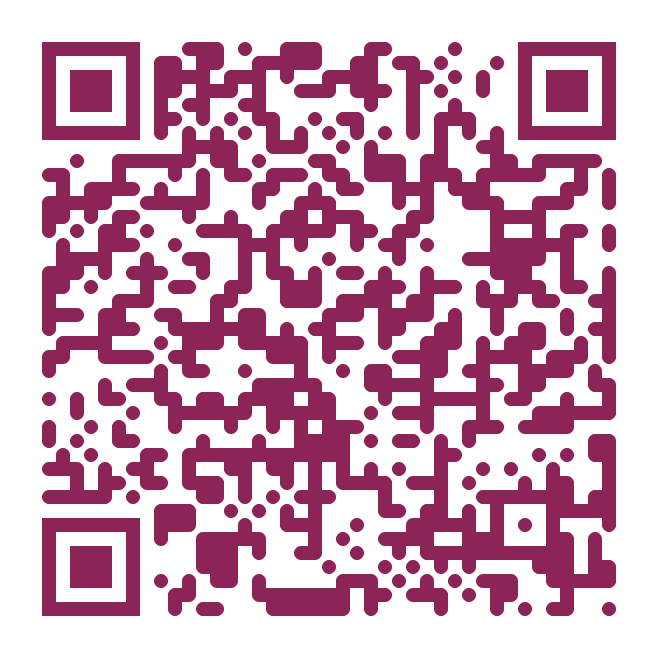
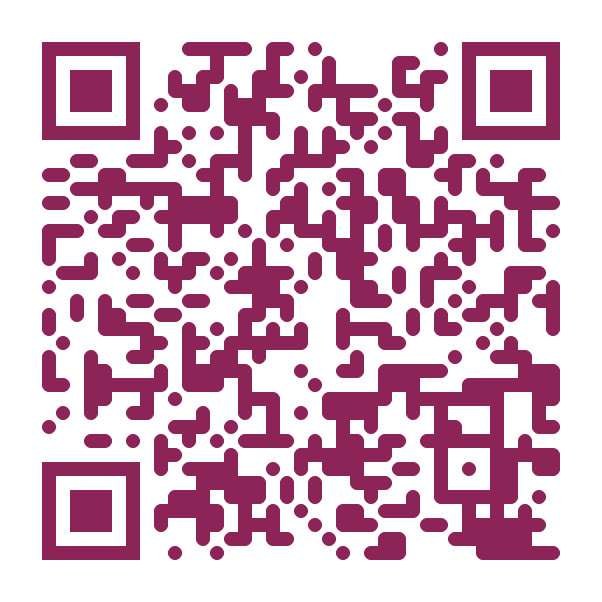
QR direct to custom domain + corrected yields

diff --git a/rpl-workup.html b/rpl-workup.html
@@ -428,21 +428,21 @@ details.cat[open] .chev{transform:rotate(180deg)}
   <div class="stats">
     <div class="stat"><div class="stat-n">1 in 4</div><div class="stat-l">pregnancies ends in early miscarriage</div><div class="stat-s">population baseline</div></div>
     <div class="stat"><div class="stat-n">2</div><div class="stat-l">losses — the threshold to start the workup</div><div class="stat-s">ESHRE 2022 · RANZCOG C-Gyn 38</div></div>
-    <div class="stat"><div class="stat-n">~50%</div><div class="stat-l">of fully investigated couples: no cause found</div><div class="stat-s">and their outlook is still good</div></div>
+    <div class="stat"><div class="stat-n">~60%</div><div class="stat-l">of fully investigated couples: no cause found</div><div class="stat-s">and their outlook is still good</div></div>
   </div>
 
   <div class="plot" id="fig-yield">
     <div class="plot-t"><span class="fig">Figure 1</span>Expected yield of each test</div>
-    <div class="plot-s">How often each result comes back abnormal in RPL.</div>
+    <div class="plot-s">Chance of a finding that changes management — confirmed, not first-draw.</div>
     <div class="yb-list">
       <div class="yb" data-w="55"><div class="yb-l"><b>POC chromosome array</b><span>on tissue from the next loss — explains that loss</span></div><div class="yb-track"><div class="yb-fill"></div><span class="yb-v">~55%</span></div></div>
-      <div class="yb" data-w="20"><div class="yb-l"><b>TSH + TPO antibodies</b><span>abnormal in 15–25% — overt disease is treatable</span></div><div class="yb-track"><div class="yb-fill"></div><span class="yb-v">~20%</span></div></div>
-      <div class="yb" data-w="17"><div class="yb-l"><b>3D pelvic ultrasound</b><span>anomaly or adenomyosis in 10–25%</span></div><div class="yb-track"><div class="yb-fill"></div><span class="yb-v">~17%</span></div></div>
-      <div class="yb hot" data-w="12"><div class="yb-l"><b>Antiphospholipid screen</b><span>10–15% — the one treatable serological cause</span></div><div class="yb-track"><div class="yb-fill"></div><span class="yb-v">~12%</span></div></div>
+      <div class="yb" data-w="13"><div class="yb-l"><b>3D pelvic ultrasound</b><span>congenital anomaly in ~13% — vs 5.5% background</span></div><div class="yb-track"><div class="yb-fill"></div><span class="yb-v">~13%</span></div></div>
+      <div class="yb" data-w="6"><div class="yb-l"><b>TSH + TPO antibodies</b><span>TSH&nbsp;&gt;4 in ~5% — the part that is treated; TPO+ ~10% ≈ background</span></div><div class="yb-track"><div class="yb-fill"></div><span class="yb-v">~5%</span></div></div>
+      <div class="yb hot" data-w="4"><div class="yb-l"><b>Antiphospholipid screen</b><span>first draw positive ~10% — <b>persistent at 12 wks in 1–5%</b>: the treatable cause</span></div><div class="yb-track"><div class="yb-fill"></div><span class="yb-v">1–5%</span></div></div>
       <div class="yb" data-w="3"><div class="yb-l"><b>Parental karyotype</b><span>2–4% — and it falls sharply with maternal age</span></div><div class="yb-track"><div class="yb-fill"></div><span class="yb-v">~3%</span></div></div>
-      <div class="yb grey" data-w="50"><div class="yb-l"><b>No cause found</b><span>unexplained after the full panel — plan and support</span></div><div class="yb-track"><div class="yb-fill"></div><span class="yb-v">~50%</span></div></div>
+      <div class="yb grey" data-w="60"><div class="yb-l"><b>No cause found</b><span>unexplained after the full panel — plan and support</span></div><div class="yb-track"><div class="yb-fill"></div><span class="yb-v">50–75%</span></div></div>
     </div>
-    <div class="viz-tag">Approximate yields from ESHRE 2022 evidence review — ranges vary by cohort</div>
+    <div class="viz-tag">Confirmed-finding rates: Shehata 2022 (n=1,155) · Leduc-Robert 2020 (n=1,064) · Chan 2011 meta-analysis · ranges vary by cohort</div>
   </div>
 
   <div class="medicare">
@@ -514,20 +514,20 @@ details.cat[open] .chev{transform:rotate(180deg)}
   </div>
 
   <details class="cat">
-    <summary><div class="cat-ti"><span class="ic"><svg class="i"><use href="#i-zap"/></svg></span>Antiphospholipid screen<span class="chev">▼</span></div><span class="urg u3">yield 10–15%</span></summary>
-    <div class="cat-body"><div class="cat-b">Lupus anticoagulant + anticardiolipin IgG/IgM (reasonable to add anti-β2GPI on the same form). <strong>The one treatable serological cause.</strong> Confirm any positive ≥12 weeks later. If confirmed APS: low-dose aspirin + prophylactic LMWH from positive βhCG. Not valid on warfarin/DOACs; withhold heparin 12 h pre-sample.</div>
+    <summary><div class="cat-ti"><span class="ic"><svg class="i"><use href="#i-zap"/></svg></span>Antiphospholipid screen<span class="chev">▼</span></div><span class="urg u3">confirmed 1–5%</span></summary>
+    <div class="cat-body"><div class="cat-b">Lupus anticoagulant + anticardiolipin IgG/IgM (reasonable to add anti-β2GPI on the same form). <strong>The one treatable serological cause — but most first positives do not persist:</strong> ~10% test positive once, only 1–5% remain positive on the mandatory ≥12-week repeat. Never label APS off a single draw. If confirmed APS: low-dose aspirin + prophylactic LMWH from positive βhCG. Not valid on warfarin/DOACs; withhold heparin 12 h pre-sample.</div>
     <div class="cat-ex"><span>ESHRE Rec 15–16</span><span>RANZCOG R8</span></div></div>
   </details>
 
   <details class="cat">
-    <summary><div class="cat-ti"><span class="ic"><svg class="i"><use href="#i-clock"/></svg></span>TSH + TPO antibodies<span class="chev">▼</span></div><span class="urg u3">yield 15–25%</span></summary>
-    <div class="cat-body"><div class="cat-b">If TSH abnormal → add free T4. <strong>Treat overt hypothyroidism.</strong> Euthyroid TPO-positivity does not benefit from levothyroxine (ESHRE 2022 update) — but recheck TSH at 7–9 weeks in the next pregnancy.</div>
+    <summary><div class="cat-ti"><span class="ic"><svg class="i"><use href="#i-clock"/></svg></span>TSH + TPO antibodies<span class="chev">▼</span></div><span class="urg u3">treatable ~5%</span></summary>
+    <div class="cat-body"><div class="cat-b">If TSH abnormal → add free T4. <strong>Treat from TSH &gt;4</strong> (~5% of RPL patients). TPO antibodies are positive in ~10% — similar to background — and euthyroid TPO-positivity does not benefit from levothyroxine (ESHRE 2022 update); recheck TSH at 7–9 weeks in the next pregnancy.</div>
     <div class="cat-ex"><span>ESHRE Rec 24, 47, 51</span><span>RANZCOG R15–16</span></div></div>
   </details>
 
   <details class="cat">
-    <summary><div class="cat-ti"><span class="ic"><svg class="i"><use href="#i-pin"/></svg></span>3D transvaginal ultrasound<span class="chev">▼</span></div><span class="urg u3">yield 10–25%</span></summary>
-    <div class="cat-body"><div class="cat-b">Request <strong>"TVS with 3D reconstruction"</strong> — distinguishes septate from bicorporeal uterus and screens for adenomyosis. Sonohysterography is an acceptable alternative; MRI only if 3D unavailable. Anomaly found → assess renal tract. Note: septum resection is no longer routine after the Rikken RCT.</div>
+    <summary><div class="cat-ti"><span class="ic"><svg class="i"><use href="#i-pin"/></svg></span>3D transvaginal ultrasound<span class="chev">▼</span></div><span class="urg u3">yield ~13%</span></summary>
+    <div class="cat-body"><div class="cat-b">Request <strong>"TVS with 3D reconstruction"</strong> — congenital anomalies in ~13% of recurrent miscarriage vs 5.5% of all women (Chan 2011); also screens for adenomyosis.  Sonohysterography is an acceptable alternative; MRI only if 3D unavailable. Anomaly found → assess renal tract. Note: septum resection is no longer routine after the Rikken RCT.</div>
     <div class="cat-ex"><span>ESHRE Rec 33–38</span><span>RANZCOG R8</span></div></div>
   </details>
 
@@ -671,7 +671,10 @@ var SRC={
   NYBO:   {s:"Nybo Andersen 2000",t:"Registry (n≈634k)",f:"Nybo Andersen AM, et al. BMJ 2000. Miscarriage risk by maternal age: ~12% in the 20s, ~25% at 35–39, >50% at 40–44.",c:"#9a3412",n:7},
   RIKKEN: {s:"Rikken 2021",t:"RCT",f:"Rikken JFW, et al. 2021. Septum resection did not improve live birth — no longer routine.",c:"#475569",n:8},
   PRISM:  {s:"PRISM/PROMISE",t:"RCTs",f:"Coomarasamy A, et al. Progesterone benefit limited to women with early-pregnancy bleeding and prior losses; no benefit as blanket therapy.",c:"#475569",n:9},
-  SYDNEY: {s:"Sydney criteria",t:"Consensus",f:"Miyakis S, et al. 2006. APS requires a persistent positive ≥12 weeks apart plus clinical criteria.",c:"#b4232a",n:10}
+  SYDNEY: {s:"Sydney criteria",t:"Consensus",f:"Miyakis S, et al. 2006. APS requires a persistent positive ≥12 weeks apart plus clinical criteria.",c:"#b4232a",n:10},
+  SHEH:   {s:"Shehata 2022",t:"Cohort (n=1,155)",f:"Shehata H, et al. BMJ Open 2022. With strict Sapporo criteria (12-week repeat), persistent LA 0.5% and persistent aCL 0.5% in recurrent miscarriage — similar to the general population.",c:"#475569",n:11},
+  CHAN:   {s:"Chan 2011",t:"Meta-analysis (n≈90k)",f:"Chan YY, et al. Hum Reprod Update 2011. Congenital uterine anomalies (optimal tests): 13.3% with recurrent miscarriage vs 5.5% unselected; septate uterus the dominant excess.",c:"#475569",n:12},
+  LEDUC:  {s:"Leduc-Robert 2020",t:"Cohort (n=1,064)",f:"Leduc-Robert G, et al. RBMO 2020. In RPL: TSH 4–10 in 5.4%, borderline TSH 2.5–4 in 19.4% (treatment did not help), TPO antibodies ~10%.",c:"#475569",n:13}
 };
 function cite(ids){return ids.map(function(id){var s=SRC[id];return '<span class="cb" data-cb>'+s.s+'<span class="ctt"><span class="ctt-t">'+s.t+'</span>'+s.f+'</span></span>';}).join('');}
 
@@ -686,8 +689,8 @@ function clamp(v,a,b){return Math.max(a,Math.min(b,v));}
 /* ───────── PEARLS ───────── */
 var PEARLS={
   aps:{cls:'teach',k:'The treatable minority',t:'APS is why the workup exists',
-    b:'Found in <span class="qn">10–15%</span> of RPL — and confirmed APS changes management: low-dose aspirin + prophylactic LMWH from positive βhCG, with a real live-birth gain. Confirm positives <span class="qn">≥12 weeks apart</span>.',
-    src:['ESHRE','SYDNEY']},
+    b:'First-draw positives in ~10% of RPL, but only <span class="qn">1–5%</span> persist on the mandatory 12-week repeat — and the persistent ones are the ones that matter: confirmed APS gets aspirin + prophylactic LMWH from positive βhCG, with a real live-birth gain.',
+    src:['ESHRE','SYDNEY','SHEH']},
   aneu:{cls:'teach',k:'Why age lowers the "answer rate"',t:'At older ages, the explanation is usually the embryo',
     b:'Miscarriage risk rises steeply with age (<span class="qn">>50% at 40–44</span>) because aneuploidy rises — so maternal testing finds <strong>less</strong>, not more. A POC array on the next loss often answers what the blood panel cannot.',
     src:['NYBO','LEI']},
@@ -729,7 +732,7 @@ function vignette(s){
 }
 function compute(s){
   /* G1: chance the workup finds a cause */
-  var f=40;
+  var f=34;
   if(s.timing==='late')f+=18;
   if(s.flags==='vte')f+=12; if(s.flags==='fam')f+=8;
   if(s.age>=40)f-=14; else if(s.age>=37)f-=7;
@@ -776,7 +779,7 @@ function compute(s){
   return {
     gauges:[
       {id:'find',title:'Chance the workup finds a cause',type:'priority',tag:'j',val:f,lo:clamp(f-14,2,100),hi:clamp(f+12,0,98),zones:ZY,
-       note:fNote,src:['ESHRE','FRANS']},
+       note:fNote,src:['ESHRE','SHEH','CHAN']},
       {id:'outlook',title:'Outlook for the next pregnancy',type:'priority',tag:'q',val:o,lo:clamp(o-12,2,100),hi:clamp(o+10,0,97),zones:ZO,
        note:oNote,src:['BRIG','CLIFF','NYBO']},
       {id:'urgency',title:'Workup and referral priority',type:'concern',tag:'j',val:u,lo:clamp(u-13,2,100),hi:clamp(u+12,0,98),zones:ZP,
